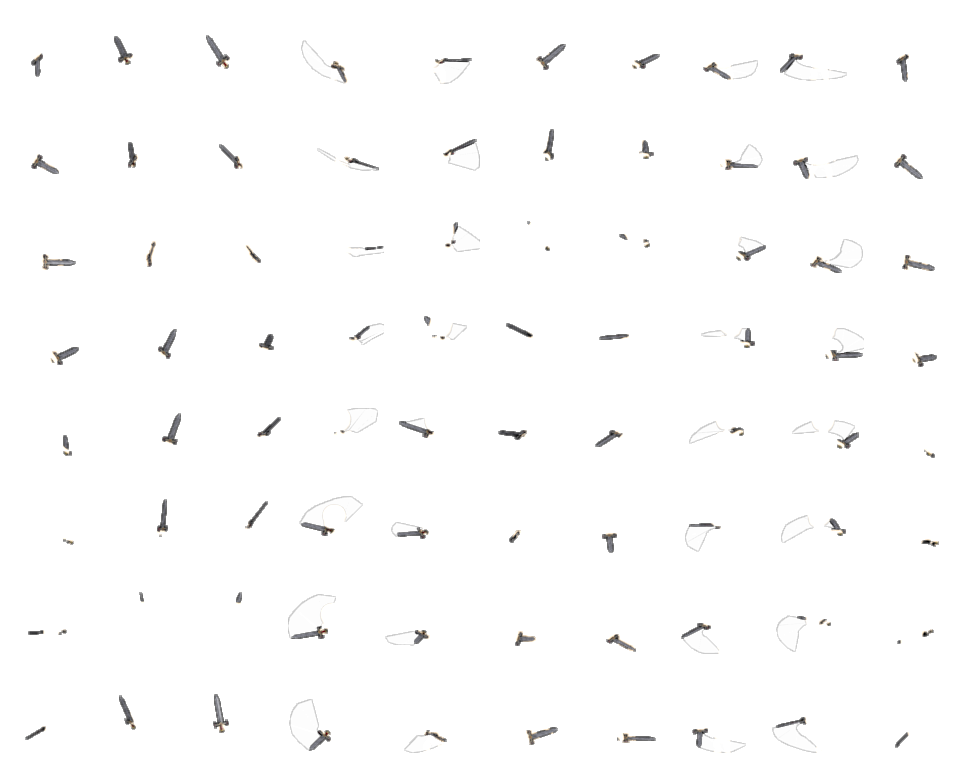
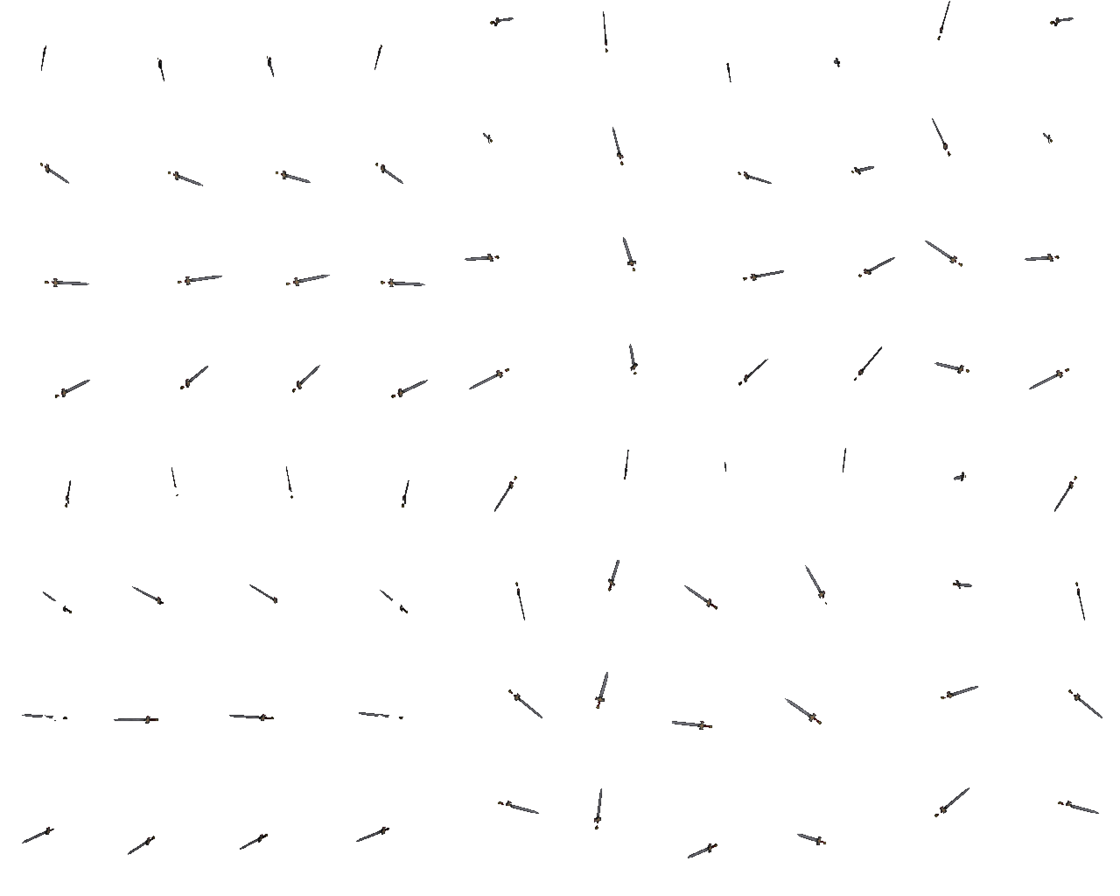
Fixed sitting typo bug; Fixed make sword animation

diff --git a/js/character.js b/js/character.js
@@ -1062,7 +1062,7 @@ Character.prototype = {
             position = Math.floor(index) * multiple;
         } else if (this.Effects.Sitting) {
             animation = "sit";
-            var seat = Entity.get(this.Effects.sitting.SeatId);
+            var seat = Entity.get(this.Effects.Sitting.SeatId);
             if (seat) {
                 switch (seat.Orientation) {
                 case "w":
